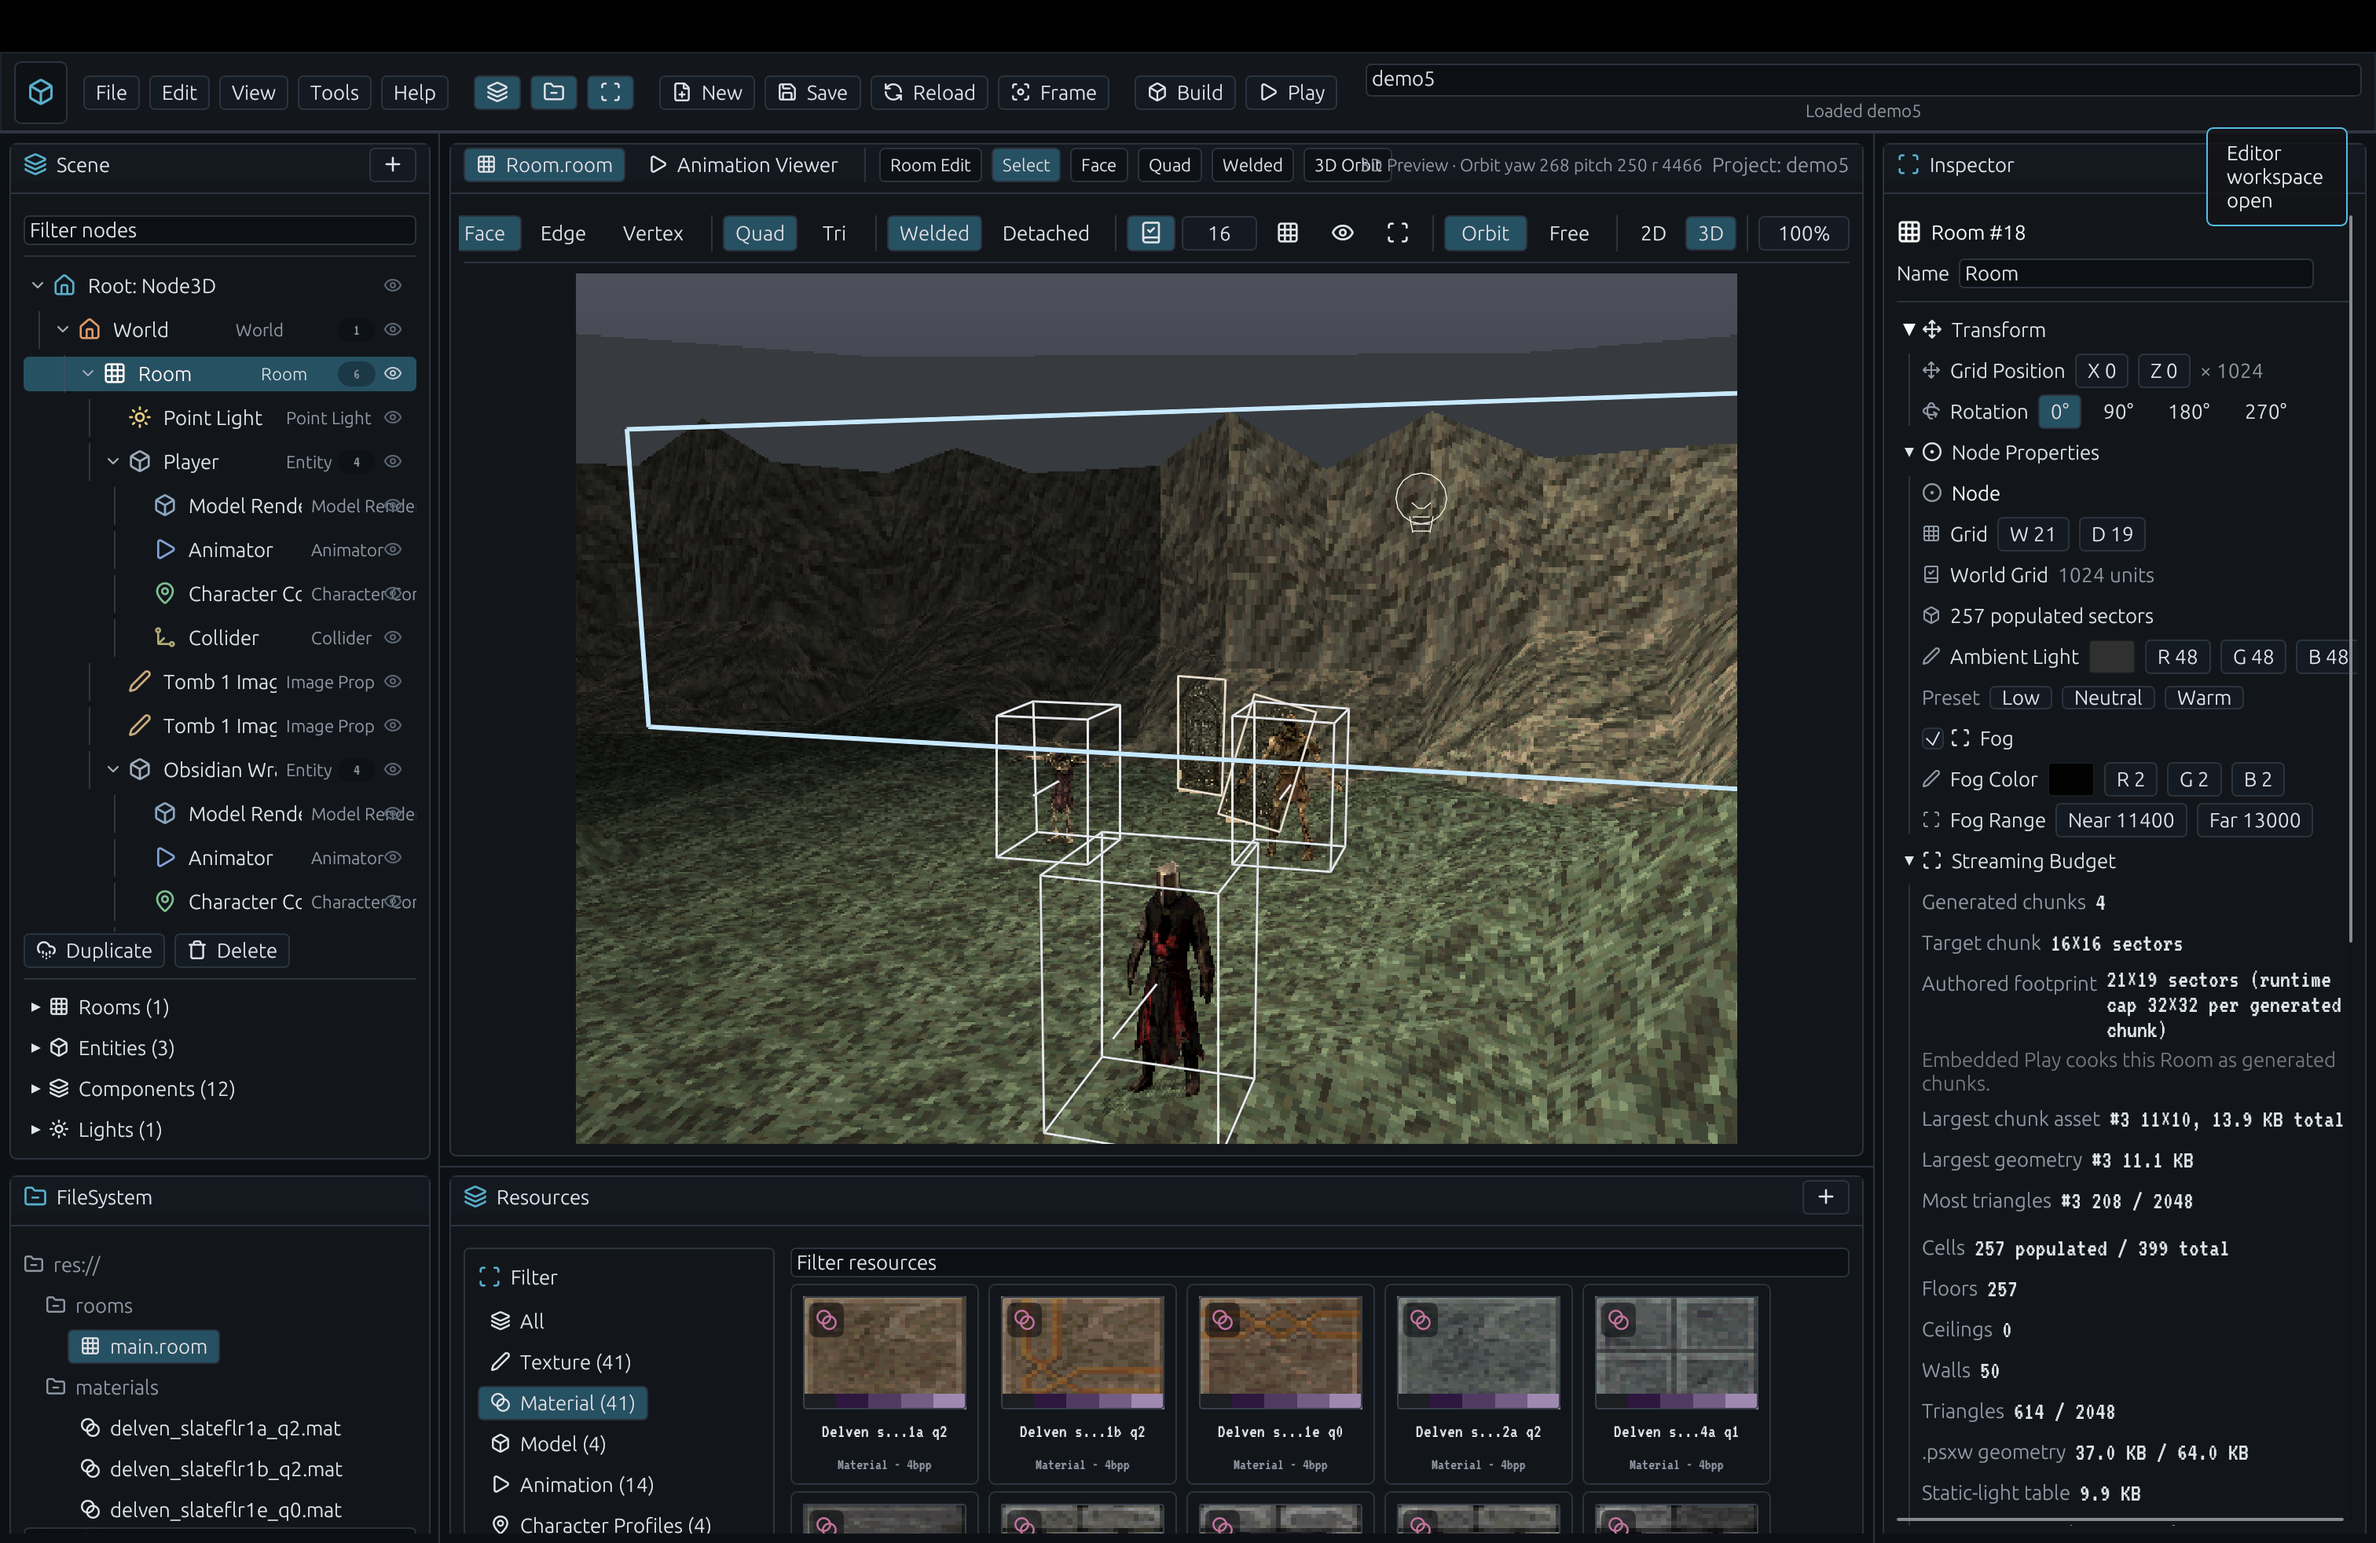
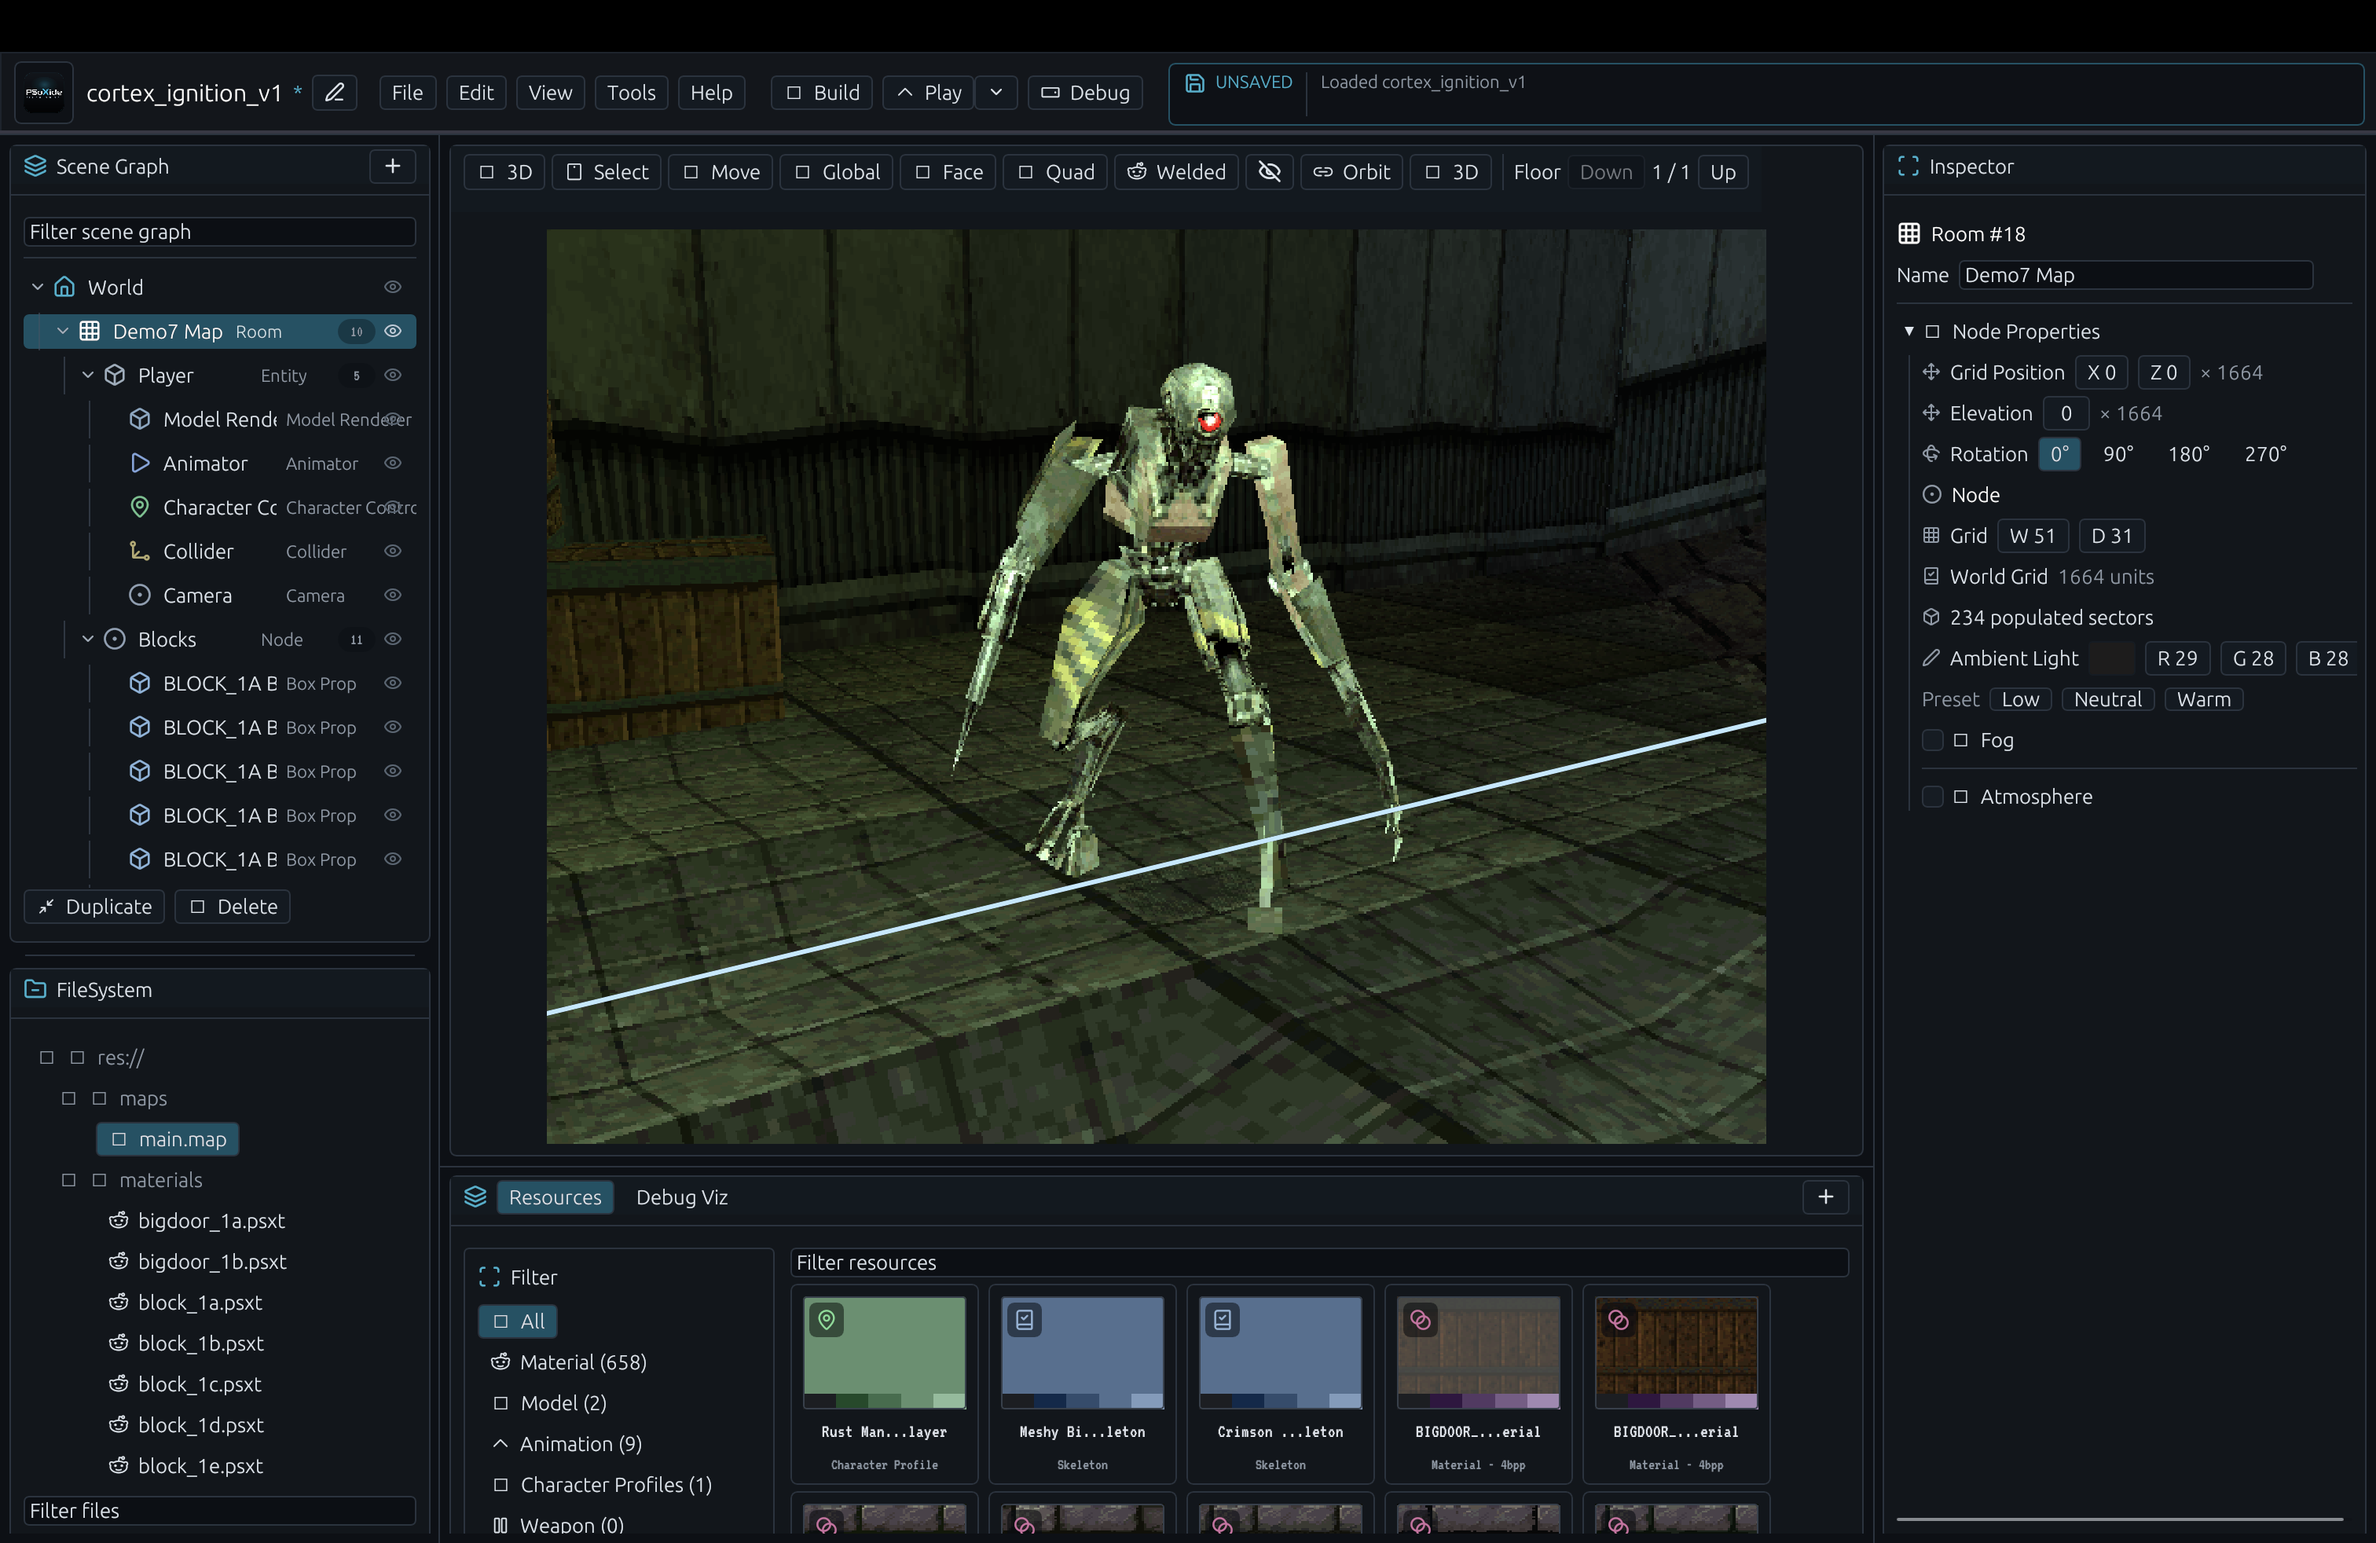
readme: refresh editor screenshots
Replace the editor hero shot with a current capture (3D scene editing,
cortex_ignition_v1) and add a second screenshot of the UI screen-state
editor below it.

diff --git a/README.md b/README.md
@@ -21,6 +21,8 @@ slice. The public tools are built around proving the full workflow end to end.
 
 ![PSoXide editor](assets/media/readme/editor-preview.png)
 
+![PSoXide UI editor](assets/media/readme/editor-ui-preview.png)
+
 | | |
 | --- | --- |
 | ![Streamed playtest](assets/media/readme/demo2-playtest.png) | ![Streamed playtest](assets/media/readme/demo3-playtest.png) |
